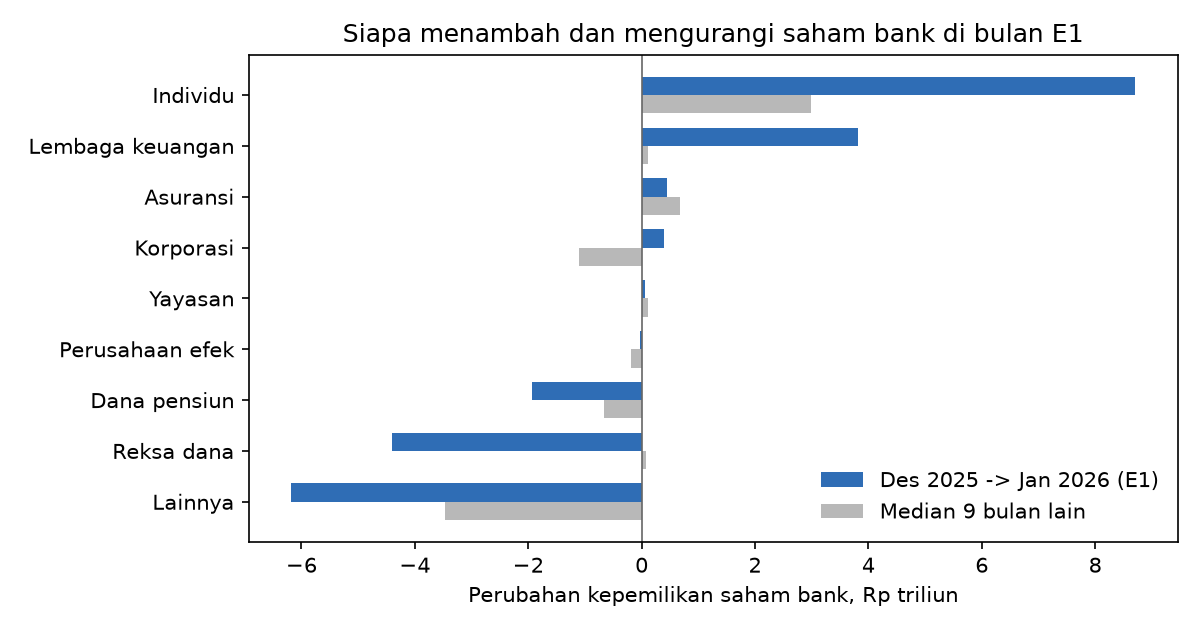
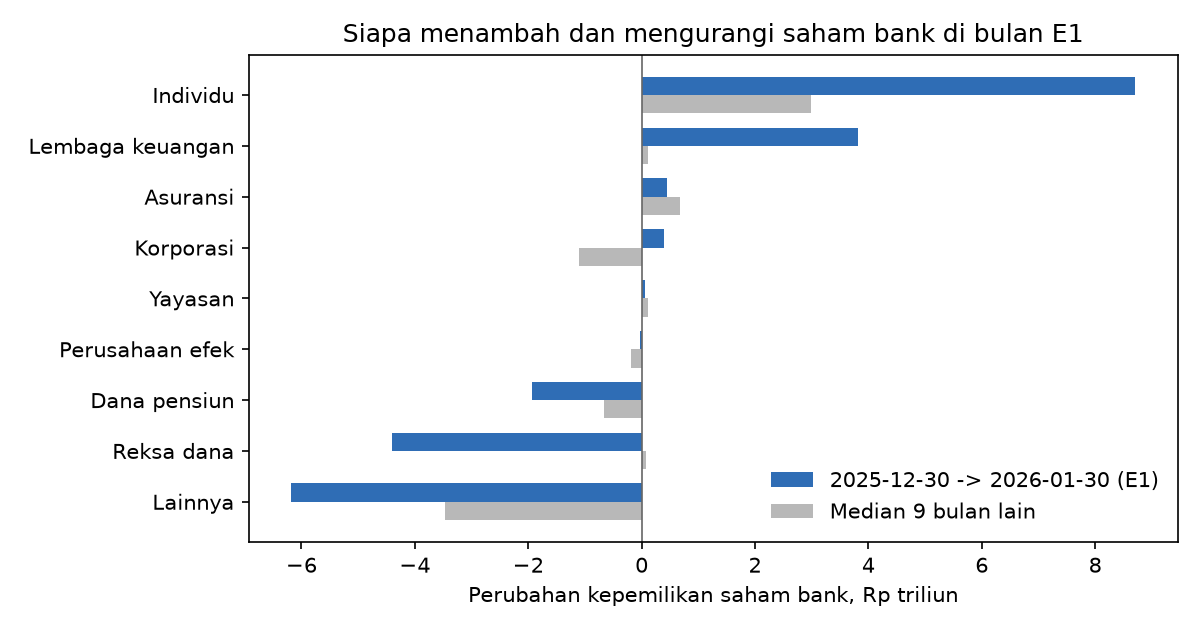
16_pembeli_e1.py: bisa dijalankan untuk E2
Argumen E1|E2; E2 memakai posisi KSEI 30 Sep -> akhir Oktober 2026 dan
menambah tabel lokal vs asing per tipe investor bila datanya terpisah.

Changed region(s): [[0.6167, 0.7238, 0.925, 0.8444]]

diff --git a/analisis/16_pembeli_e1.py b/analisis/16_pembeli_e1.py
@@ -1,4 +1,6 @@
-"""Siapa yang membeli ketika asing menjual bank di E1? (kepemilikan KSEI per tipe investor)
+"""Siapa yang membeli ketika asing menjual bank di E1 (atau E2)? (kepemilikan KSEI per tipe investor)
+
+Pemakaian: python 16_pembeli_e1.py [E1|E2]   (E1: 30 Des 2025 -> 30 Jan 2026; E2: 30 Sep -> akhir Okt 2026)
 
 Data: posisi akhir bulan KSEI per tipe investor (01h), 28 Nov 2025 - 30 Sep 2026. Nov-Des 2025 hanya total per tipe
 (lokal+asing digabung); mulai Jan 2026 lokal dan asing terpisah.
@@ -10,6 +12,7 @@ Data: posisi akhir bulan KSEI per tipe investor (01h), 28 Nov 2025 - 30 Sep 2026
 
 Output: hasil/lanjutan/{pembeli_bulanan.csv, pembeli_e1.csv, pembeli_e1.png, ringkasan_pembeli.md}
 """
+import sys
 import warnings
 
 import matplotlib
@@ -24,7 +27,11 @@ warnings.filterwarnings("ignore")
 OUT = k.HASIL / "lanjutan"
 NAMA = {"CP": "Korporasi", "FD": "Yayasan", "IB": "Lembaga keuangan", "ID": "Individu", "IS": "Asuransi",
         "MF": "Reksa dana", "OT": "Lainnya", "PF": "Dana pensiun", "SC": "Perusahaan efek"}
-E1_AWAL, E1_AKHIR = "2025-12-30", "2026-01-30"
+EV = (sys.argv[1] if len(sys.argv) > 1 else "E1").upper()
+# bulan event: posisi akhir bulan sebelum event -> akhir bulan event (akhir Okt dicari otomatis dari data)
+JENDELA = {"E1": ("2025-12-30", "2026-01-30"), "E2": ("2026-09-30", None)}
+E1_AWAL, E1_AKHIR = JENDELA[EV]
+SUF = EV.lower()
 
 
 def muat():
@@ -34,7 +41,7 @@ def muat():
     harian = harian[harian["date"] >= "2025-11-01"].drop_duplicates(["date", "ticker"])
     static = pd.read_csv(k.DATA_OLAH / "static.csv").set_index("ticker")
     bank = set(static.index[static["GICS_INDUSTRY_NAME"] == "Banks"])
-    msci = set(pd.read_csv(k.DATA_OLAH / "msci.csv").query("event == 'E1'")["ticker"])
+    msci = set(pd.read_csv(k.DATA_OLAH / "msci.csv").query("event == @EV")["ticker"])
     return t, harian, bank, msci
 
 
@@ -67,7 +74,7 @@ def perubahan_bulanan(t, harian, bank, msci):
 
 
 def ringkas_e1(bul):
-    bul = bul.assign(e1=bul["awal"].astype(str) == E1_AWAL)
+    bul = bul.assign(e1=bul["awal"].astype(str) == E1_AWAL)  # bulan event
     out = []
     for (kel, tipe), g in bul.groupby(["kelompok", "tipe"]):
         e = g.loc[g["e1"], "perubahan_rp_T"]
@@ -105,12 +112,12 @@ def grafik(e1, path):
     b = e1[e1["kelompok"] == "Bank"].sort_values("e1_rp_T")
     fig, ax = plt.subplots(figsize=(8, 4.2))
     y = np.arange(len(b))
-    ax.barh(y + 0.18, b["e1_rp_T"], height=0.36, color="#2f6db5", label="Des 2025 -> Jan 2026 (E1)")
+    ax.barh(y + 0.18, b["e1_rp_T"], height=0.36, color="#2f6db5", label=f"{E1_AWAL} -> {E1_AKHIR} ({EV})")
     ax.barh(y - 0.18, b["median_bulan_lain"], height=0.36, color="#b8b8b8", label="Median 9 bulan lain")
     ax.set_yticks(y, b["nama_tipe"])
     ax.axvline(0, color="#666", lw=0.8)
     ax.set_xlabel("Perubahan kepemilikan saham bank, Rp triliun")
-    ax.set_title("Siapa menambah dan mengurangi saham bank di bulan E1")
+    ax.set_title(f"Siapa menambah dan mengurangi saham bank di bulan {EV}")
     ax.legend(frameon=False, loc="lower right")
     fig.tight_layout()
     fig.savefig(path, dpi=150)
@@ -125,33 +132,55 @@ def md(df, fmt="{:.2f}"):
     return "\n".join(b)
 
 
+def per_asal(t, harian, bank):
+    """Perubahan per tipe x lokal/asing di saham bank, bila kedua posisi punya pemisahan lokal/asing."""
+    x = t[t["ticker"].isin(bank) & t["date"].isin([pd.Timestamp(E1_AWAL), pd.Timestamp(E1_AKHIR)]) & (t["asal"] != "total")]
+    if x["date"].nunique() < 2:
+        return pd.DataFrame()
+    w = x.pivot_table(index=["ticker", "tipe", "asal"], columns="date", values="saham", aggfunc="sum").fillna(0)
+    d = (w.iloc[:, 1] - w.iloc[:, 0]).rename("lembar").reset_index()
+    p = (harga_pada(harian, E1_AWAL) + harga_pada(harian, E1_AKHIR)) / 2
+    d["rp_T"] = d["lembar"] * d["ticker"].map(p).fillna(0) / 1e12
+    return d.pivot_table(index="tipe", columns="asal", values="rp_T", aggfunc="sum").rename(index=NAMA)
+
+
 def main():
+    global E1_AKHIR
     t, harian, bank, msci = muat()
+    if E1_AKHIR is None:
+        akhir = t.loc[t["date"] > pd.Timestamp(E1_AWAL), "date"]
+        if akhir.empty:
+            sys.exit(f"{EV}: posisi KSEI setelah {E1_AWAL} belum ada. Unduh berkas 'tipe' bulan event dulu (01h).")
+        E1_AKHIR = f"{akhir.min():%Y-%m-%d}"
     bul = perubahan_bulanan(t, harian, bank, msci)
     bul.to_csv(OUT / "pembeli_bulanan.csv", index=False)
     e1 = ringkas_e1(bul)
-    e1.to_csv(OUT / "pembeli_e1.csv", index=False)
+    e1.to_csv(OUT / f"pembeli_{SUF}.csv", index=False)
     kom = komposisi(t, bank)
     cs = cek_silang(t, harian)
-    grafik(e1, OUT / "pembeli_e1.png")
+    grafik(e1, OUT / f"pembeli_{SUF}.png")
     jan = harian[(harian["date"] > E1_AWAL) & (harian["date"] <= E1_AKHIR) & harian["ticker"].isin(bank)]
     asing_bank_jan = ((jan["foreign_buy"] - jan["foreign_sell"]) * jan["close"]).sum() / 1e12
     tb = e1[e1["kelompok"] == "Bank"].sort_values("e1_rp_T", ascending=False).merge(kom.rename("porsi_asing_30jan"), left_on="tipe", right_index=True)
     print(tb.round(3).to_string(index=False))
     print(f"Beli-bersih asing di bank menurut BEI, 31 Des-30 Jan: Rp{asing_bank_jan:.1f} T")
     print(cs.round(3).to_string(index=False))
-    teks = ["# Siapa yang membeli saham bank saat E1?", "",
-            f"Perubahan kepemilikan KSEI per tipe investor di 49 saham bank, {E1_AWAL} -> {E1_AKHIR} (bulan E1), dalam Rp T, "
+    pa = per_asal(t, harian, bank)
+    if not pa.empty:
+        print(pa.round(2).to_string())
+    teks = [f"# Siapa yang membeli saham bank saat {EV}?", "",
+            f"Perubahan kepemilikan KSEI per tipe investor di 49 saham bank, {E1_AWAL} -> {E1_AKHIR} (bulan event), dalam Rp T, "
             "dibanding 9 bulan lain (Nov 2025-Sep 2026). Tipe = gabungan lokal dan asing (data 2025 tidak memisahkannya); "
             "kolom porsi asing menunjukkan seberapa asing tipe itu di saham bank per 30 Jan 2026.", "",
             f"Menurut transaksi harian BEI, asing beli-bersih saham bank Rp{asing_bank_jan:.1f} T sepanjang bulan itu.", "",
             md(tb[["nama_tipe", "e1_rp_T", "median_bulan_lain", "z", "peringkat_dari_atas", "porsi_asing_30jan"]].round(3)), "",
-            "![pembeli](pembeli_e1.png)", "",
+            f"![pembeli](pembeli_{SUF}.png)", "",
+            *(["## Lokal vs asing per tipe di saham bank (Rp T)", "", md(pa.round(3).reset_index()), ""] if not pa.empty else []),
             "## Semua kelompok saham", "", md(e1.round(3)), "",
             "## Cek silang: perubahan kepemilikan asing KSEI vs beli-bersih asing BEI (lembar)", "", md(cs.round(3)), "",
             "Catatan: posisi akhir bulan menangkap seluruh bulan, bukan hanya hari E1 (28-29 Jan). Rp = lembar x rata-rata "
             "harga dua akhir bulan, jadi perubahan harga tidak dihitung sebagai beli/jual."]
-    (OUT / "ringkasan_pembeli.md").write_text("\n".join(teks), encoding="utf-8")
+    (OUT / ("ringkasan_pembeli.md" if EV == "E1" else f"ringkasan_pembeli_{SUF}.md")).write_text("\n".join(teks), encoding="utf-8")
 
 
 if __name__ == "__main__":

diff --git a/hasil/lanjutan/ringkasan_pembeli.md b/hasil/lanjutan/ringkasan_pembeli.md
@@ -1,6 +1,6 @@
 # Siapa yang membeli saham bank saat E1?
 
-Perubahan kepemilikan KSEI per tipe investor di 49 saham bank, 2025-12-30 -> 2026-01-30 (bulan E1), dalam Rp T, dibanding 9 bulan lain (Nov 2025-Sep 2026). Tipe = gabungan lokal dan asing (data 2025 tidak memisahkannya); kolom porsi asing menunjukkan seberapa asing tipe itu di saham bank per 30 Jan 2026.
+Perubahan kepemilikan KSEI per tipe investor di 49 saham bank, 2025-12-30 -> 2026-01-30 (bulan event), dalam Rp T, dibanding 9 bulan lain (Nov 2025-Sep 2026). Tipe = gabungan lokal dan asing (data 2025 tidak memisahkannya); kolom porsi asing menunjukkan seberapa asing tipe itu di saham bank per 30 Jan 2026.
 
 Menurut transaksi harian BEI, asing beli-bersih saham bank Rp-16.5 T sepanjang bulan itu.
 
